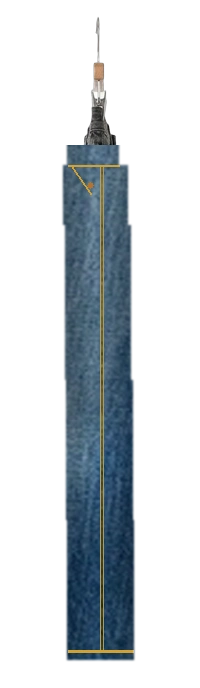
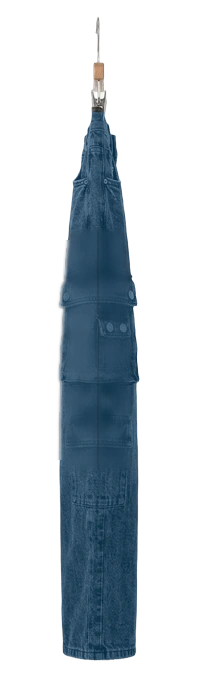
fix(rail): change brand signature to 'Sào Đồ Thời Trang' and restore photorealistic 3D garment drape without cargo pockets

Changed region(s): [[0.27, 0.1526, 0.69, 0.9767], [0.57, 0.8241, 0.6, 0.8547]]

diff --git a/FashionStore/wwwroot/js/clothing-rail.js b/FashionStore/wwwroot/js/clothing-rail.js
@@ -169,7 +169,7 @@
             badge: 'SÀO QUẦN // THỜI TRANG ĐỘC BẢN',
             eyebrow: 'BỘ SƯU TẬP QUẦN',
             heroTitle: 'Thời Trang Độc Bản · Nâng Tầm Phong Cách',
-            brandSignature: '<span>Sào Quần</span><span>Thời Trang</span>',
+            brandSignature: '<span>Sào Đồ</span><span>Thời Trang</span>',
             captionHeading: 'Bộ sưu tập quần cao cấp HNMTSHOP.',
             captionDetail: 'Lướt sào hoặc chọn đồ xem chi tiết.',
             products: [
@@ -247,8 +247,8 @@
     let currentRackIdx = 0;
     let products = currentRacks[0].products;
 
-    const photo = (p, variant = 0) => (p.frontImg ? `${p.frontImg}?v=pants_v2` : `/clothing-rail/assets/${p.slug}-${variant ? 'alt' : 'front'}.webp?v=pants_v2`);
-    const sidePhoto = p => (p.sideImg ? `${p.sideImg}?v=pants_v2` : `/clothing-rail/assets/${p.slug}-side.webp?v=pants_v2`);
+    const photo = (p, variant = 0) => (p.frontImg ? `${p.frontImg}?v=pants_v3` : `/clothing-rail/assets/${p.slug}-${variant ? 'alt' : 'front'}.webp?v=pants_v3`);
+    const sidePhoto = p => (p.sideImg ? `${p.sideImg}?v=pants_v3` : `/clothing-rail/assets/${p.slug}-side.webp?v=pants_v3`);
 
     function formatPrice(num) {
         return (num * 10000).toLocaleString('vi-VN') + ' ₫';
